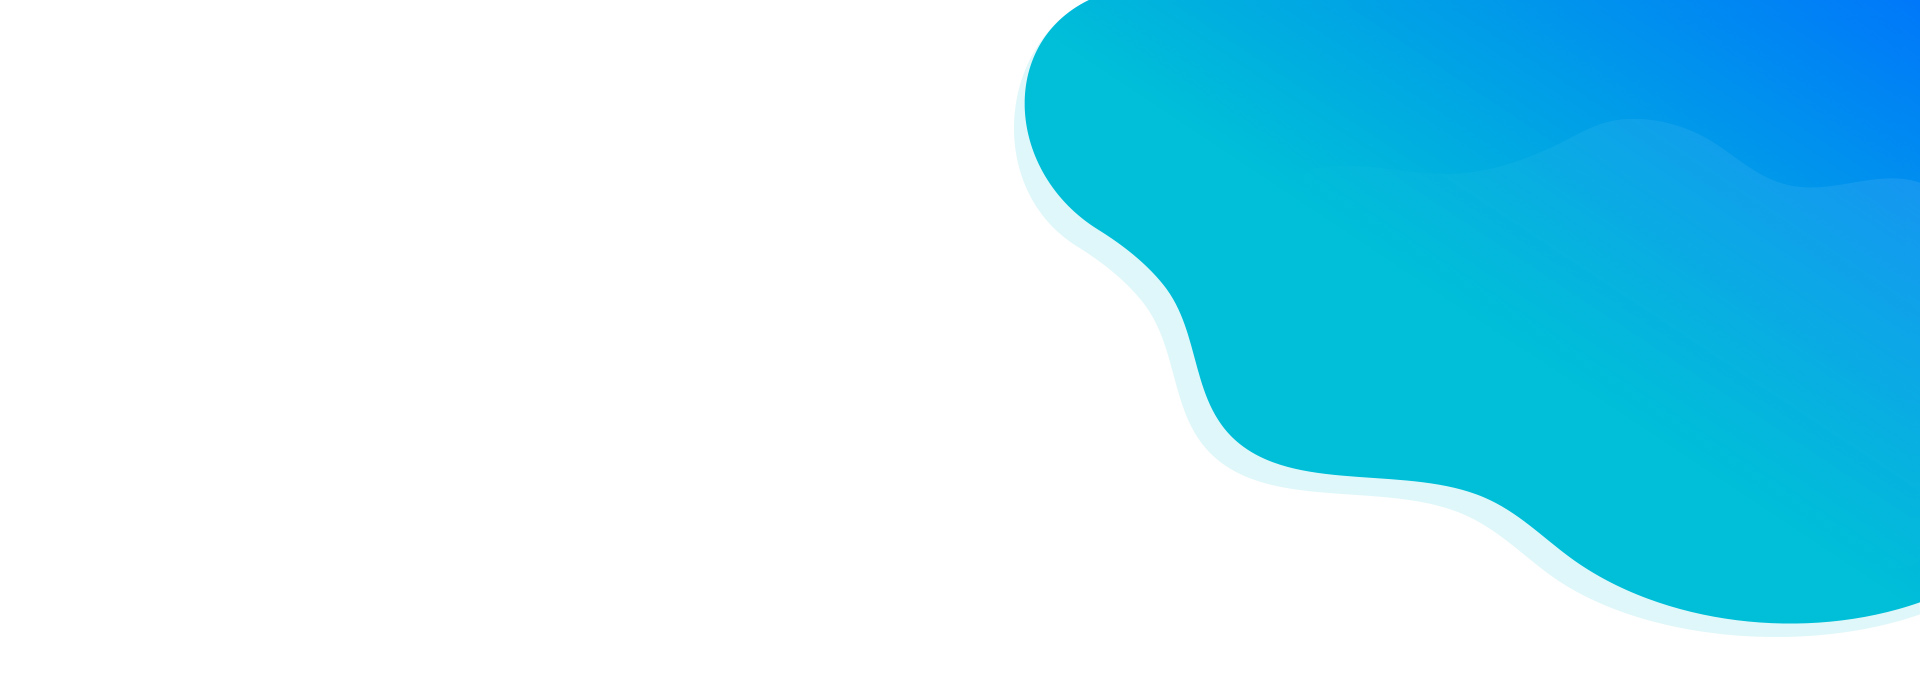
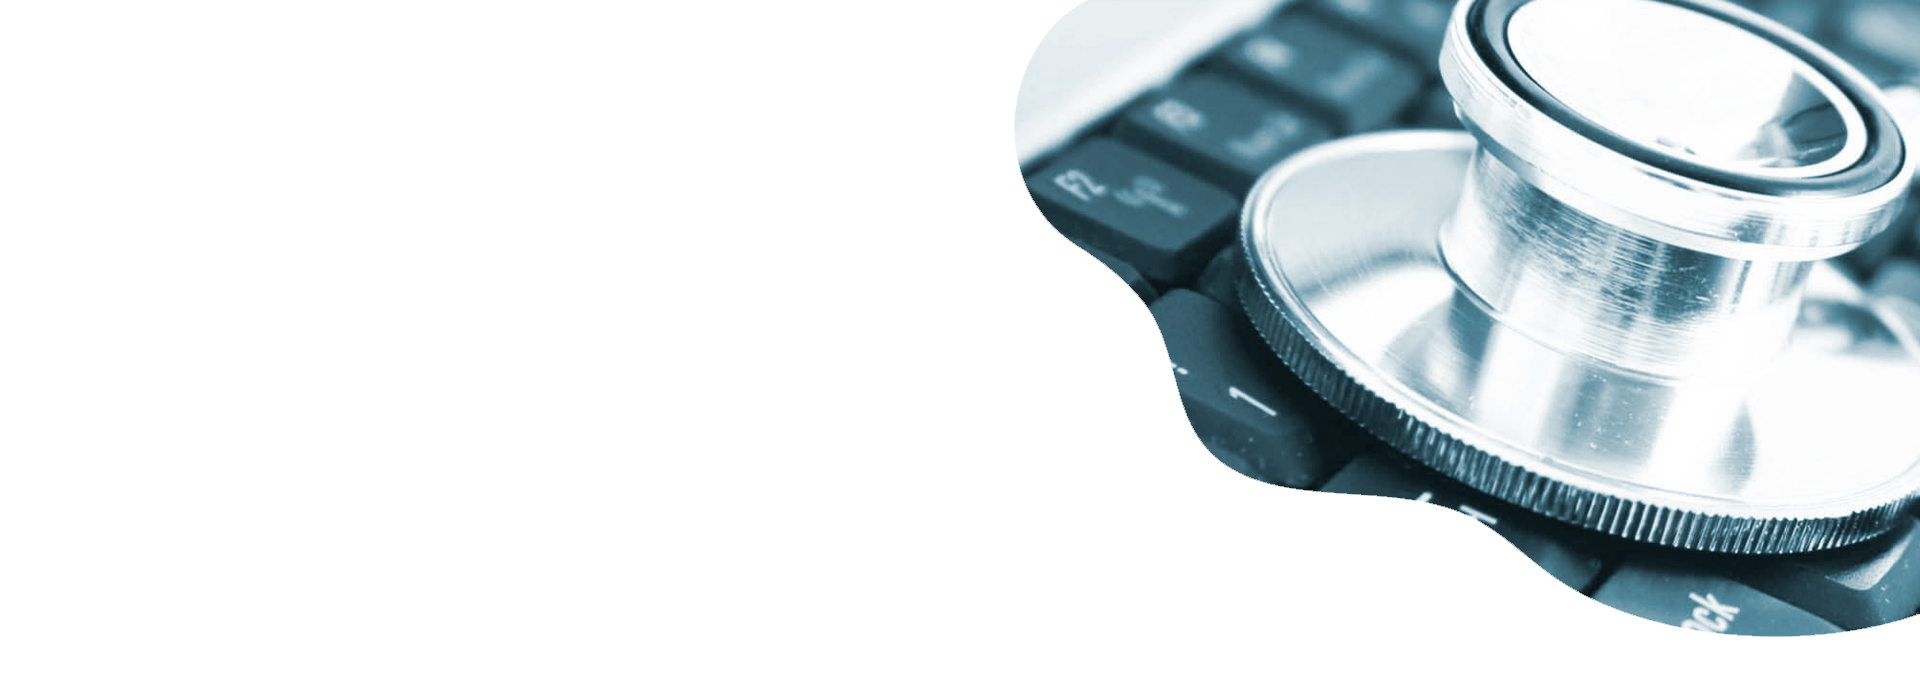
Alterado a posição dos cards e imagem de fundo da home

diff --git a/index.html b/index.html
@@ -140,23 +140,18 @@
                 <div class="row">
                     <div class="col-lg-6">
                         <div class="text-container">
-                            <h1><span class="turquoise">Dr. Simplasss </br>
-                                </span> Sistema para clínicas e consultórios
-                            </h1>
-                            <p class="p-large">O Dr.Simples além de ser um
-                                sistema local ele possui uma interface Web.
-                                Através dele você pode ver seus agendamentos e
-                                fazer suas prescrições de qualquer lugar a
-                                qualquer hora.</p>
+                            <h1> Dr. Golbery Meira de Alvarenga</h1>
+                            <p class="p-large">Agende aqui sua consulta com apenas um clique
+                                .</p>
                             <a class="btn-solid-lg page-scroll"
                                 href="#services">Descobrir</a>
                         </div> <!-- end of text-container -->
                     </div> <!-- end of col -->
                     <div class="col-lg-6">
                         <div class="image-container">
-                            <img class="img-fluid"
+                            <!-- <img class="img-fluid"
                                 src="images/undraw_doctors_hwty.svg"
-                                alt="alternative">
+                                alt="alternative"> -->
                         </div> <!-- end of image-container -->
                     </div> <!-- end of col -->
                 </div> <!-- end of row -->
@@ -170,38 +165,25 @@
     <!-- Services -->
     <div id="services" class="cards-1">
         <div class="row">
-            <div class="col-lg-12 ">
+            <div class="col-12">
 
                 <!-- Card -->
-                <div class="card cardPersonalizadoLaterais">
-
-                    
+                <div class="card cardPersonalizadoLaterais">                  
                     <img class="card-image" src="images/celular.svg"
                         alt="alternative">
-
-                    
-
                     <div class="card-body">
-
                         <h4 class="card-title"> Serviço de Emergência</h4>
-
-                          <h2>  4002-5922   </h2> 
-                          as
-                      <p> as </p>
+                        <h2>  4002-5922   </h2> 
                     </div>
                 </div>
                 <!-- end of card -->
 
                 <!-- Card -->
                 <div class="card cardPersonalizado">
-
                     <img class="card-image" src="images/agenda.svg"
                         alt="alternative">
-
                     <div class="card-body">
-
                         <h4 class="card-title">Agendar uma Consulta</h4>
-
                         <p>Agende aqui sua consulta com apenas um clique</p>
                     </div>
                 </div>
@@ -211,17 +193,14 @@
                 <div class="card cardPersonalizadoLaterais">
                     <img class="card-image" src="images/horario.svg"
                         alt="alternative">
-
                     <div class="card-body">
-
                         <h4 class="card-title">Horario de Funcionamento</h4>
-
                         <h2> Segunda - Sexta </h2>
                         <h2>08:00 - 17:00 </h2>
                     </div>
                 </div>
                 <!-- end of card -->
-
+                
             </div> <!-- end of col -->
         </div> <!-- end of row -->
     </div> <!-- end of cards-1 -->
@@ -234,9 +213,12 @@
                        
                
                 <div class="col-6">
-                    <h2>Jenna Berg
+                    <h2>Dr. Golbery Meira de Alvarenga
                     </h2> <br>
-                    <p> Lorem ipsum dolor sit amet, consectetur adipiscing elit. Vivamus orci ex, pulvinar nec finibus ut, cursus eget libero. In dictum sem non sapien condimentum aliquet. Nulla facilisi. Mauris efficitur dolor dolor, id porta nulla interdum vitae.</p>
+                    <p> O Corpo Clínico da Oftalmoclínica
+                        é liderado pelo Dr. Golbery Meira de Alvarenga.
+                         Profissional com 16 anos de experiência no mercado
+                          e com excelente qualificação profissional..</p>
                 </div>	
                 
                 <div class="col-6" >

diff --git a/css/styles.css b/css/styles.css
@@ -790,12 +790,7 @@ input[type='checkbox'] {
 
 .header .header-content {
   padding-top: 8rem;
-  padding-bottom: 4rem;
   text-align: center;
-}
-
-.header .text-container {
-  margin-bottom: 4rem;
 }
 
 .header h1 {
@@ -832,9 +827,9 @@ input[type='checkbox'] {
 /*     06. Services     */
 /************************/
 .cards-1 {
-  padding-top: 4rem;
-  padding-bottom: 1.625rem;
+  padding-bottom: 3rem;
   text-align: center;
+  background: transparent !important;
 }
 
 .cardPersonalizado {
@@ -842,11 +837,14 @@ input[type='checkbox'] {
   background: #d4fdfe;
   margin-right: -5px !important;
   margin-left: -5px !important  ;
+  width: 30%;
 }
 
 .cardPersonalizadoLaterais {
   margin-top: 30px !important;
   background-color: #b9f7f9;
+  width: 30%;
+  height: 350px;
 }
 
 .cards-1 h2 {
@@ -1646,6 +1644,28 @@ a:hover.back-to-top {
 /*****************************/
 /*     20. Media Queries     */
 /*****************************/
+@media (max-width: 767px) {
+  .cardPersonalizado {
+    background: #d4fdfe;
+    margin-right: 0px ;
+    margin-left: 0px ;
+    width: 100%;
+  }
+  
+  .cardPersonalizadoLaterais {
+    margin-top: 0px !important;
+    background-color: #b9f7f9;
+    width: 100%;
+    
+  }
+  .cards-1 .card {
+    max-width: 60rem;
+  }
+  .header .header-content {
+    padding-bottom: 2rem;
+  }
+
+}
 /* Min-width width 768px */
 @media (min-width: 768px) {
   /* General Styles */
@@ -1659,6 +1679,7 @@ a:hover.back-to-top {
   /* Header */
   .header .header-content {
     padding-top: 10.5rem;
+    padding-bottom: 1rem;
   }
 
   .header h1 {
@@ -1666,7 +1687,12 @@ a:hover.back-to-top {
     line-height: 3.5rem;
   }
   /* end of header */
-
+  
+  /* Services */
+  .cards-1 .card {
+    display: inline-block;
+    vertical-align: top;
+  }
   /* Customers */
   .slider-1 {
     padding-top: 3rem;
@@ -1768,13 +1794,15 @@ a:hover.back-to-top {
 
   .navbar-custom .nav-item .nav-link {
     padding: 0.25rem 0.75rem 0.25rem 0.75rem;
-    color: #fff;
+    color: black;
+    font-weight: 700!important;
     opacity: 0.8;
   }
 
   .navbar-custom .nav-item .nav-link:hover,
   .navbar-custom .nav-item .nav-link.active {
-    color: #fff;
+    font-weight: 700!important;
+    color: black;
     opacity: 1;
   }
 
@@ -1876,10 +1904,10 @@ a:hover.back-to-top {
   .header .header-content {
     padding-top: 11.5rem;
     text-align: left;
+    padding-bottom: 1rem;
   }
 
   .header .text-container {
-    margin-top: 3rem;
     margin-bottom: 0;
   }
   /* end of header */
@@ -1887,7 +1915,6 @@ a:hover.back-to-top {
   /* Services */
   .cards-1 .card {
     display: inline-block;
-    max-width: 17.125rem;
     vertical-align: top;
   }
   /* end of services */
@@ -2029,10 +2056,10 @@ a:hover.back-to-top {
   /* Header */
   .header .header-content {
     padding-top: 12.5rem;
+    padding-bottom: 5rem;
   }
 
   .header .text-container {
-    margin-top: 5.375rem;
     margin-left: 1rem;
     margin-right: 2rem;
   }
